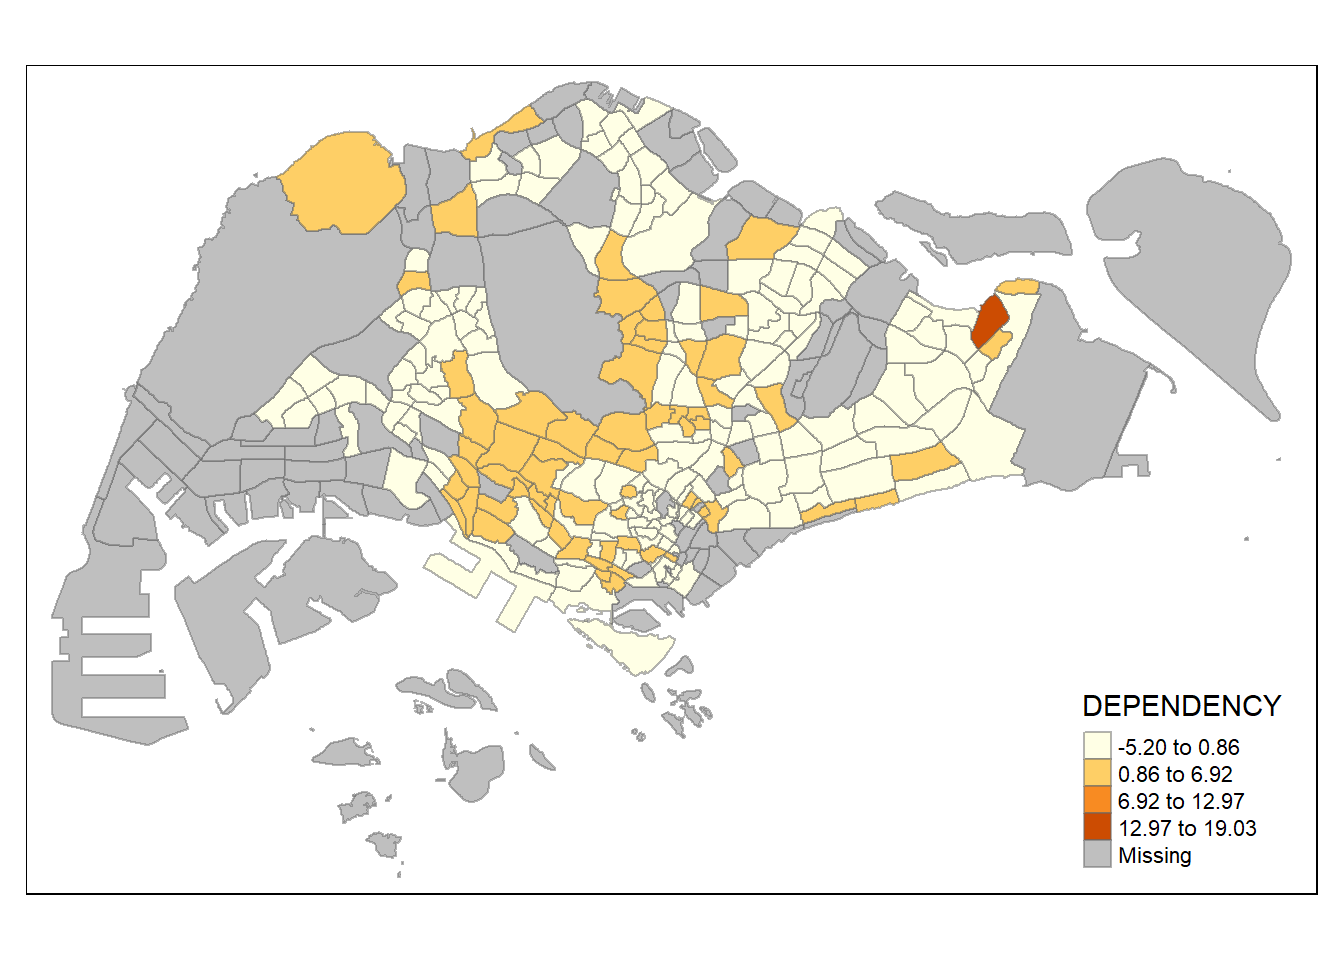
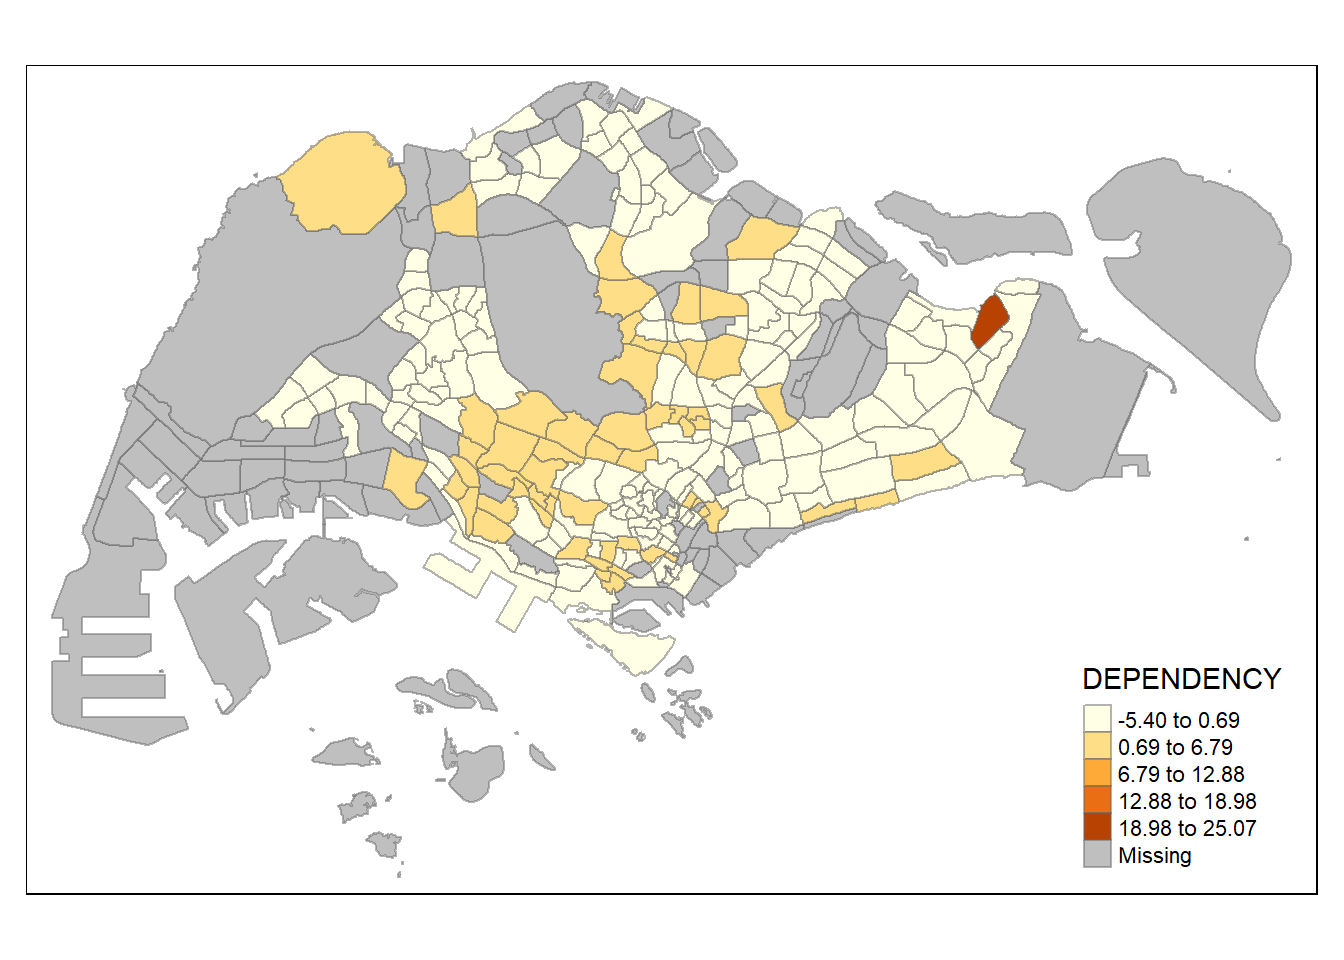
corrected code snippet

diff --git a/_site/Hands-on_Ex/Hands-on_Ex02/hands_on2.html b/_site/Hands-on_Ex/Hands-on_Ex02/hands_on2.html
@@ -357,8 +357,8 @@ dbl (2): Pop, Time
 <span id="cb8-4"><a href="#cb8-4" aria-hidden="true" tabindex="-1"></a>  <span class="fu">summarise</span>(<span class="st">`</span><span class="at">POP</span><span class="st">`</span> <span class="ot">=</span> <span class="fu">sum</span>(<span class="st">`</span><span class="at">Pop</span><span class="st">`</span>)) <span class="sc">%&gt;%</span></span>
 <span id="cb8-5"><a href="#cb8-5" aria-hidden="true" tabindex="-1"></a>  <span class="fu">ungroup</span>() <span class="sc">%&gt;%</span></span>
 <span id="cb8-6"><a href="#cb8-6" aria-hidden="true" tabindex="-1"></a>  <span class="fu">pivot_wider</span>(<span class="at">names_from =</span> AG, <span class="at">values_from =</span> POP) <span class="sc">%&gt;%</span></span>
-<span id="cb8-7"><a href="#cb8-7" aria-hidden="true" tabindex="-1"></a>  <span class="fu">mutate</span>(<span class="at">YOUNG =</span> <span class="fu">rowSums</span>(.[<span class="dv">3</span><span class="sc">:</span><span class="dv">6</span>]) <span class="sc">+</span> <span class="fu">rowSums</span>(.[<span class="dv">12</span>])) <span class="sc">%&gt;%</span></span>
-<span id="cb8-8"><a href="#cb8-8" aria-hidden="true" tabindex="-1"></a>  <span class="fu">mutate</span>(<span class="st">`</span><span class="at">ECONOMY ACTIVE</span><span class="st">`</span> <span class="ot">=</span> <span class="fu">rowSums</span>(.[<span class="dv">7</span><span class="sc">:</span><span class="dv">11</span>]) <span class="sc">+</span> <span class="fu">rowSums</span>(.[<span class="dv">13</span><span class="sc">:</span><span class="dv">15</span>])) <span class="sc">%&gt;%</span></span>
+<span id="cb8-7"><a href="#cb8-7" aria-hidden="true" tabindex="-1"></a>  <span class="fu">mutate</span>(<span class="at">YOUNG =</span> <span class="fu">rowSums</span>(.[<span class="dv">3</span><span class="sc">:</span><span class="dv">6</span>])) <span class="sc">%&gt;%</span></span>
+<span id="cb8-8"><a href="#cb8-8" aria-hidden="true" tabindex="-1"></a>  <span class="fu">mutate</span>(<span class="st">`</span><span class="at">ECONOMY ACTIVE</span><span class="st">`</span> <span class="ot">=</span> <span class="fu">rowSums</span>(.[<span class="dv">7</span><span class="sc">:</span><span class="dv">13</span>]) <span class="sc">+</span> <span class="fu">rowSums</span>(.[<span class="dv">15</span>])) <span class="sc">%&gt;%</span></span>
 <span id="cb8-9"><a href="#cb8-9" aria-hidden="true" tabindex="-1"></a>  <span class="fu">mutate</span>(<span class="st">`</span><span class="at">AGED</span><span class="st">`</span> <span class="ot">=</span> <span class="fu">rowSums</span>(.[<span class="dv">16</span><span class="sc">:</span><span class="dv">21</span>])) <span class="sc">%&gt;%</span></span>
 <span id="cb8-10"><a href="#cb8-10" aria-hidden="true" tabindex="-1"></a>  <span class="fu">mutate</span>(<span class="st">`</span><span class="at">TOTAL</span><span class="st">`</span> <span class="ot">=</span> <span class="fu">rowSums</span>(.[<span class="dv">3</span><span class="sc">:</span><span class="dv">21</span>])) <span class="sc">%&gt;%</span></span>
 <span id="cb8-11"><a href="#cb8-11" aria-hidden="true" tabindex="-1"></a>  <span class="fu">mutate</span>(<span class="st">`</span><span class="at">DEPENDENCY</span><span class="st">`</span> <span class="ot">=</span> (<span class="st">`</span><span class="at">YOUNG</span><span class="st">`</span> <span class="sc">+</span> <span class="st">`</span><span class="at">AGED</span><span class="st">`</span>) <span class="sc">/</span> <span class="st">`</span><span class="at">ECONOMY ACTIVE</span><span class="st">`</span>) <span class="sc">%&gt;%</span></span>
@@ -420,26 +420,26 @@ First 10 features:
 10         QT CENTRAL REGION       CR 3580D2AFFBEE914C 2014-12-05 24168.31
      Y_ADDR SHAPE_Leng SHAPE_Area              PA YOUNG ECONOMY ACTIVE AGED
 1  29220.19   5267.381  1630379.3            &lt;NA&gt;    NA             NA   NA
-2  29782.05   3506.107   559816.2          OUTRAM  1200           2860 2120
+2  29782.05   3506.107   559816.2          OUTRAM   760           3130 2120
 3  29974.66   1740.926   160807.5 SINGAPORE RIVER     0             40   10
-4  29933.77   3313.625   595428.9     BUKIT MERAH  3150           6900 3320
-5  30005.70   2825.594   387429.4     BUKIT MERAH  2900           6020 1740
-6  29991.38   4428.913  1030378.8     BUKIT MERAH  3340           6800 3420
-7  30230.86   3275.312   551732.0     BUKIT MERAH  3130           7700 3610
+4  29933.77   3313.625   595428.9     BUKIT MERAH  2150           7450 3320
+5  30005.70   2825.594   387429.4     BUKIT MERAH  2120           6160 1740
+6  29991.38   4428.913  1030378.8     BUKIT MERAH  2380           7340 3420
+7  30230.86   3275.312   551732.0     BUKIT MERAH  2170           8080 3610
 8  30222.86   2208.619   290184.7 SINGAPORE RIVER     0             50   10
-9  29893.78   6571.323  1084792.3      QUEENSTOWN  1290           2600  610
-10 30104.18   3454.239   631644.3      QUEENSTOWN    50            140   60
+9  29893.78   6571.323  1084792.3      QUEENSTOWN   940           2770  610
+10 30104.18   3454.239   631644.3      QUEENSTOWN    30            160   60
    TOTAL DEPENDENCY                       geometry
 1     NA         NA MULTIPOLYGON (((31495.56 30...
-2   6180  1.1608392 MULTIPOLYGON (((29092.28 30...
+2   6180  0.9201278 MULTIPOLYGON (((29092.28 30...
 3     50  0.2500000 MULTIPOLYGON (((29932.33 29...
-4  13370  0.9376812 MULTIPOLYGON (((27131.28 30...
-5  10660  0.7707641 MULTIPOLYGON (((26451.03 30...
-6  13560  0.9941176 MULTIPOLYGON (((25899.7 297...
-7  14440  0.8753247 MULTIPOLYGON (((27746.95 30...
+4  13370  0.7342282 MULTIPOLYGON (((27131.28 30...
+5  10660  0.6266234 MULTIPOLYGON (((26451.03 30...
+6  13560  0.7901907 MULTIPOLYGON (((25899.7 297...
+7  14440  0.7153465 MULTIPOLYGON (((27746.95 30...
 8     60  0.2000000 MULTIPOLYGON (((29351.26 29...
-9   4500  0.7307692 MULTIPOLYGON (((20996.49 30...
-10   250  0.7857143 MULTIPOLYGON (((24472.11 29...</code></pre>
+9   4500  0.5595668 MULTIPOLYGON (((20996.49 30...
+10   250  0.5625000 MULTIPOLYGON (((24472.11 29...</code></pre>
 </div>
 </div>
 <p>Thing to learn from the code chunk above:</p>
@@ -737,7 +737,7 @@ First 10 features:
 <div class="sourceCode cell-code" id="cb29"><pre class="sourceCode r code-with-copy"><code class="sourceCode r"><span id="cb29-1"><a href="#cb29-1" aria-hidden="true" tabindex="-1"></a><span class="fu">summary</span>(mpsz_pop2020<span class="sc">$</span>DEPENDENCY)</span></code><button title="Copy to Clipboard" class="code-copy-button"><i class="bi"></i></button></pre></div>
 <div class="cell-output cell-output-stdout">
 <pre><code>   Min. 1st Qu.  Median    Mean 3rd Qu.    Max.    NA's 
- 0.1111  0.7147  0.7866  0.8585  0.8763 19.0000      92 </code></pre>
+ 0.0000  0.5661  0.6179  0.6942  0.6941 19.0000      92 </code></pre>
 </div>
 </div>
 <p>With reference to the results above, we set break point at 0.60, 0.70, 0.80, and 0.90. In addition, we also need to include a minimum and maximum, which we set at 0 and 100. Our breaks vector is thus c(0, 0.60, 0.70, 0.80, 0.90, 19.00)</p>
